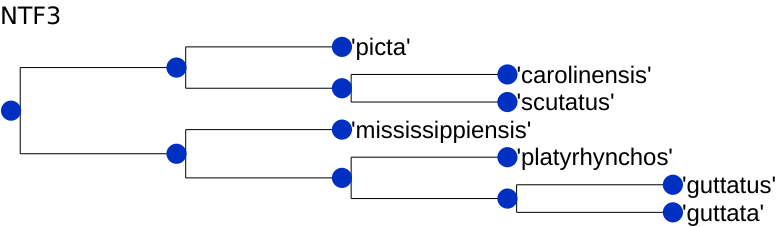
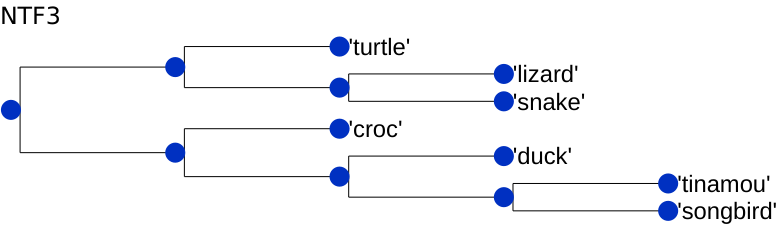
Same as the first trees but with the common animal names

diff --git a/Final/main.py b/Final/main.py
@@ -12,11 +12,22 @@ def parse_filename(filename):
     return filename_re.match(filename).group(1)
 
 def main():
+    conversions = {
+        "scutatus": "snake",
+        "carolinensis": "lizard",
+        "picta": "turtle",
+        "mississippiensis": "croc",
+        "platyrhynchos": "duck",
+        "guttatus": "tinamou",
+        "guttata": "songbird",
+    }
+
     for folder in os.listdir('sequences'):
         genes = {}
         for filename in os.listdir('sequences/' + folder):
+            name = conversions[parse_filename(filename)]
             readFASTAFile("sequences/" + folder + "/" + filename, 
-                parse_filename(filename), genes)
+                name, genes)
 
         print([len(genes[a]) for a in genes])
 
